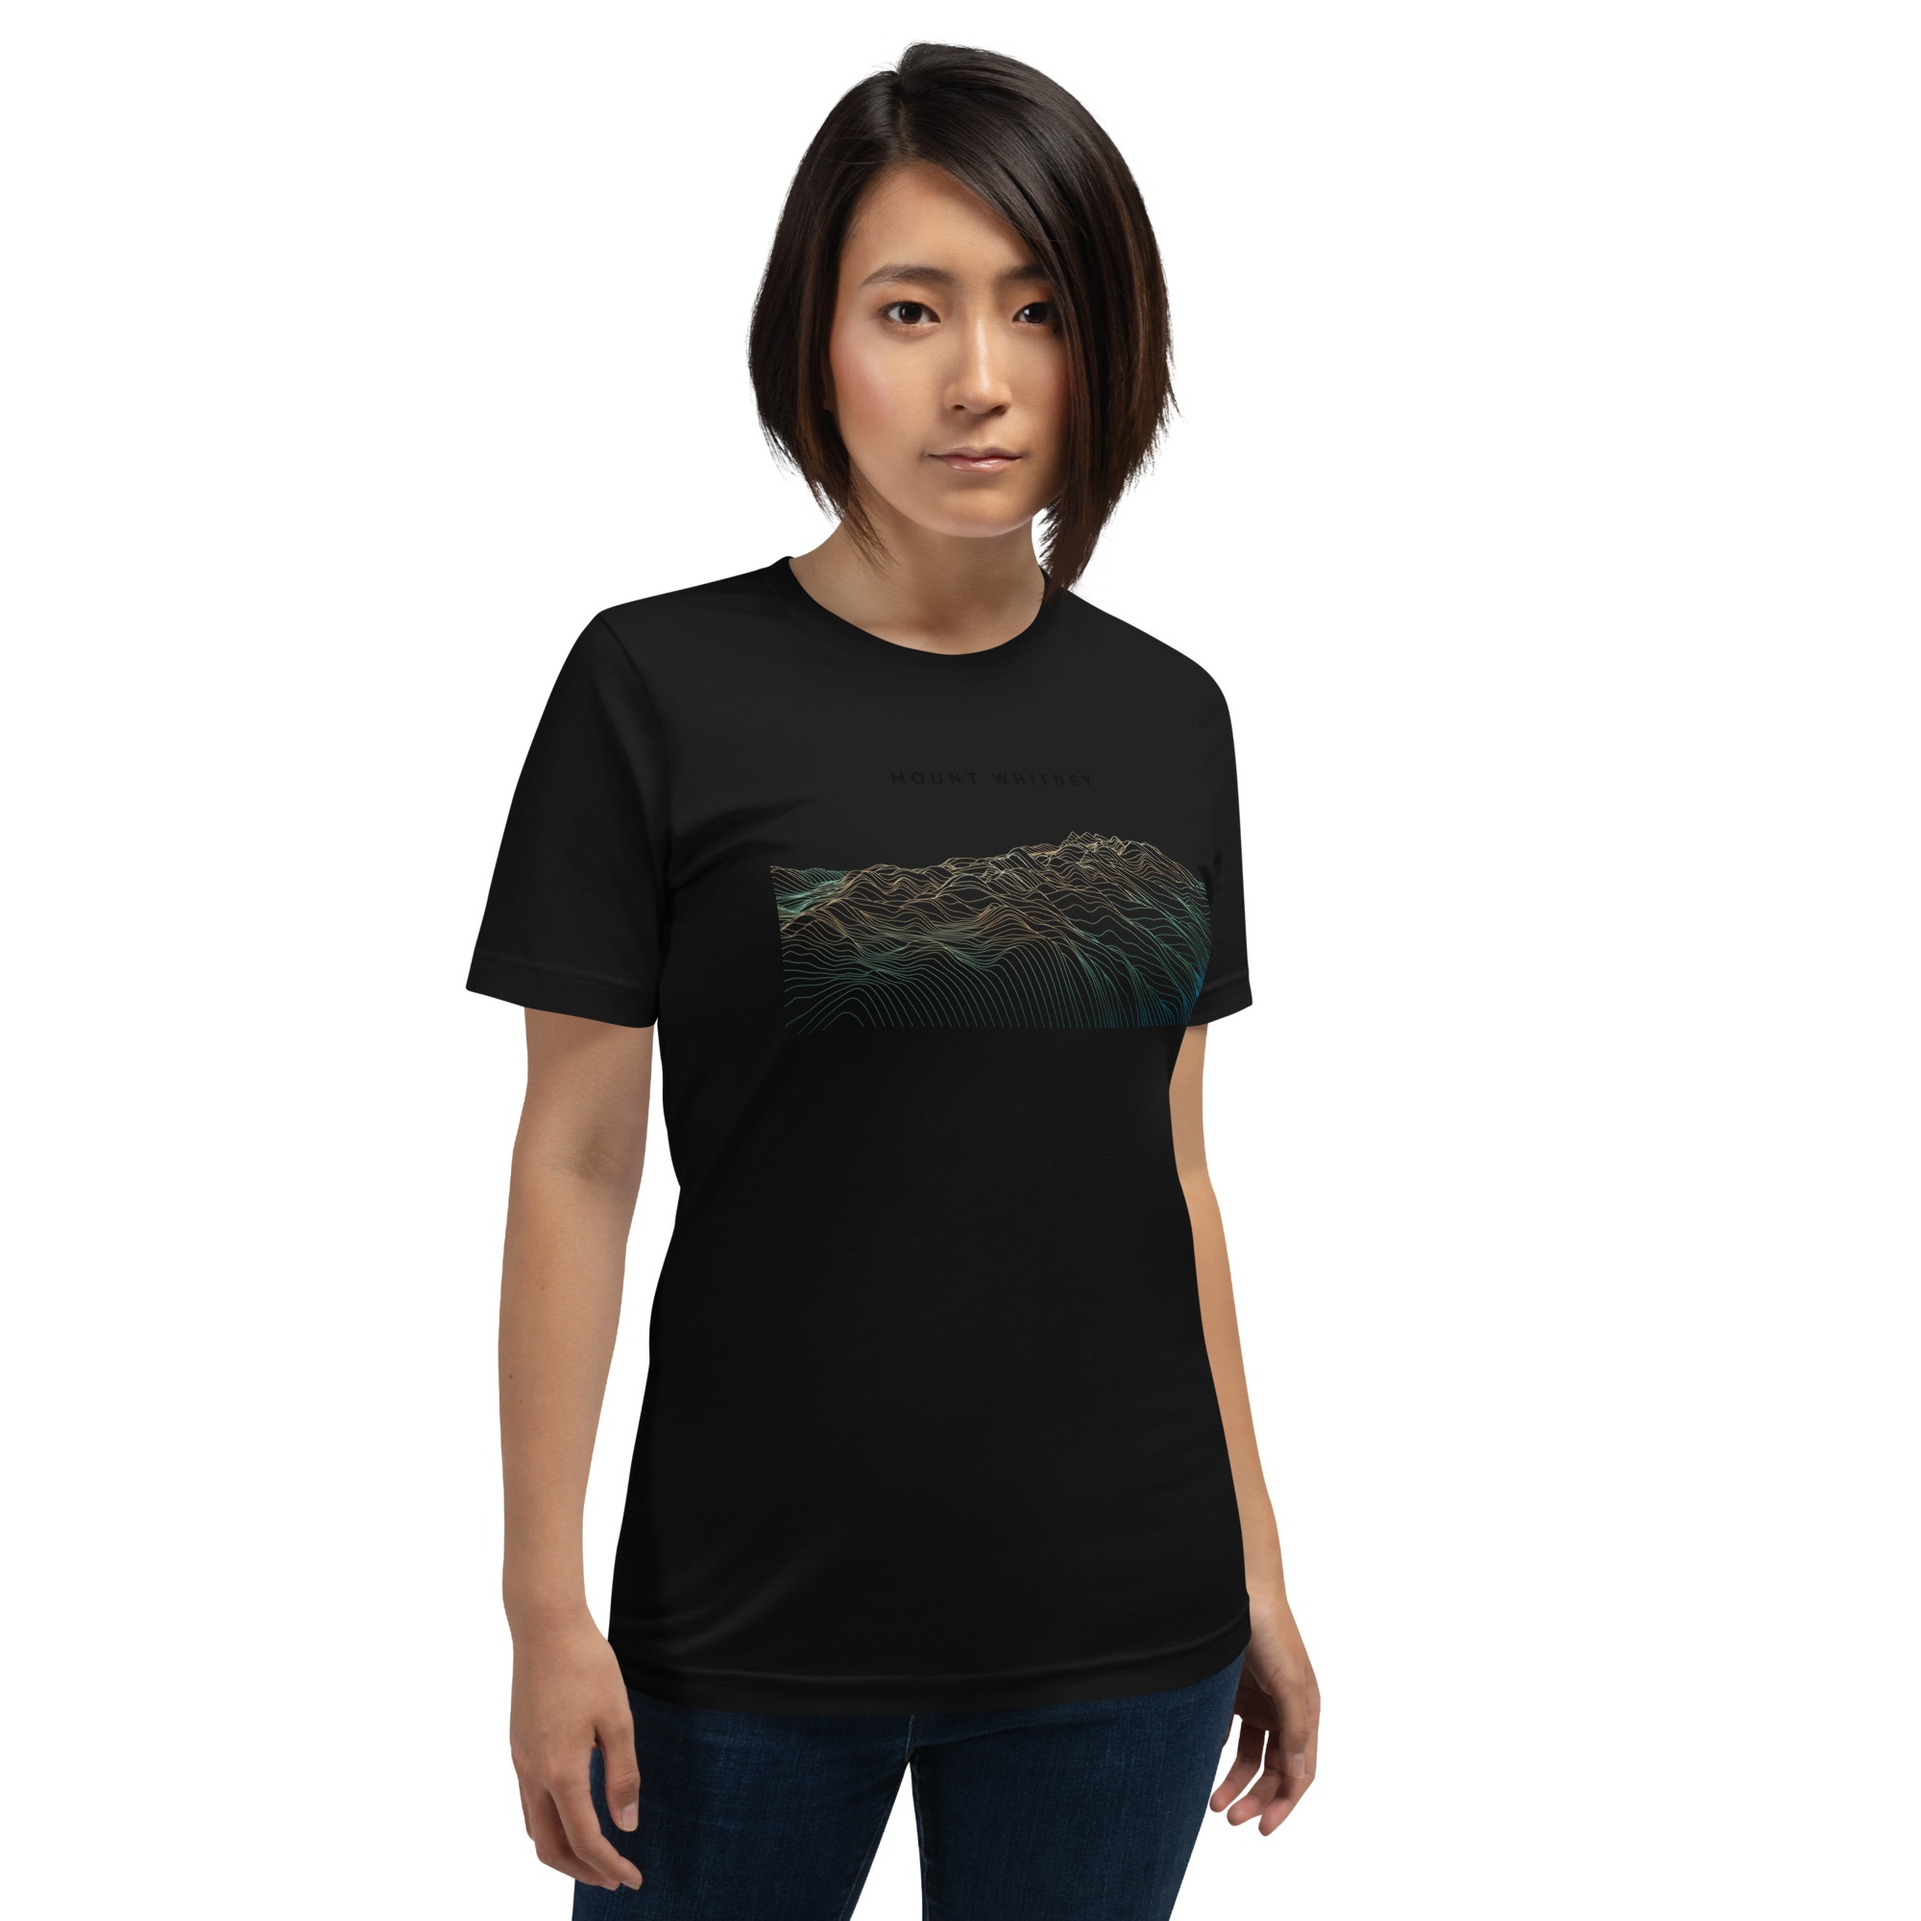
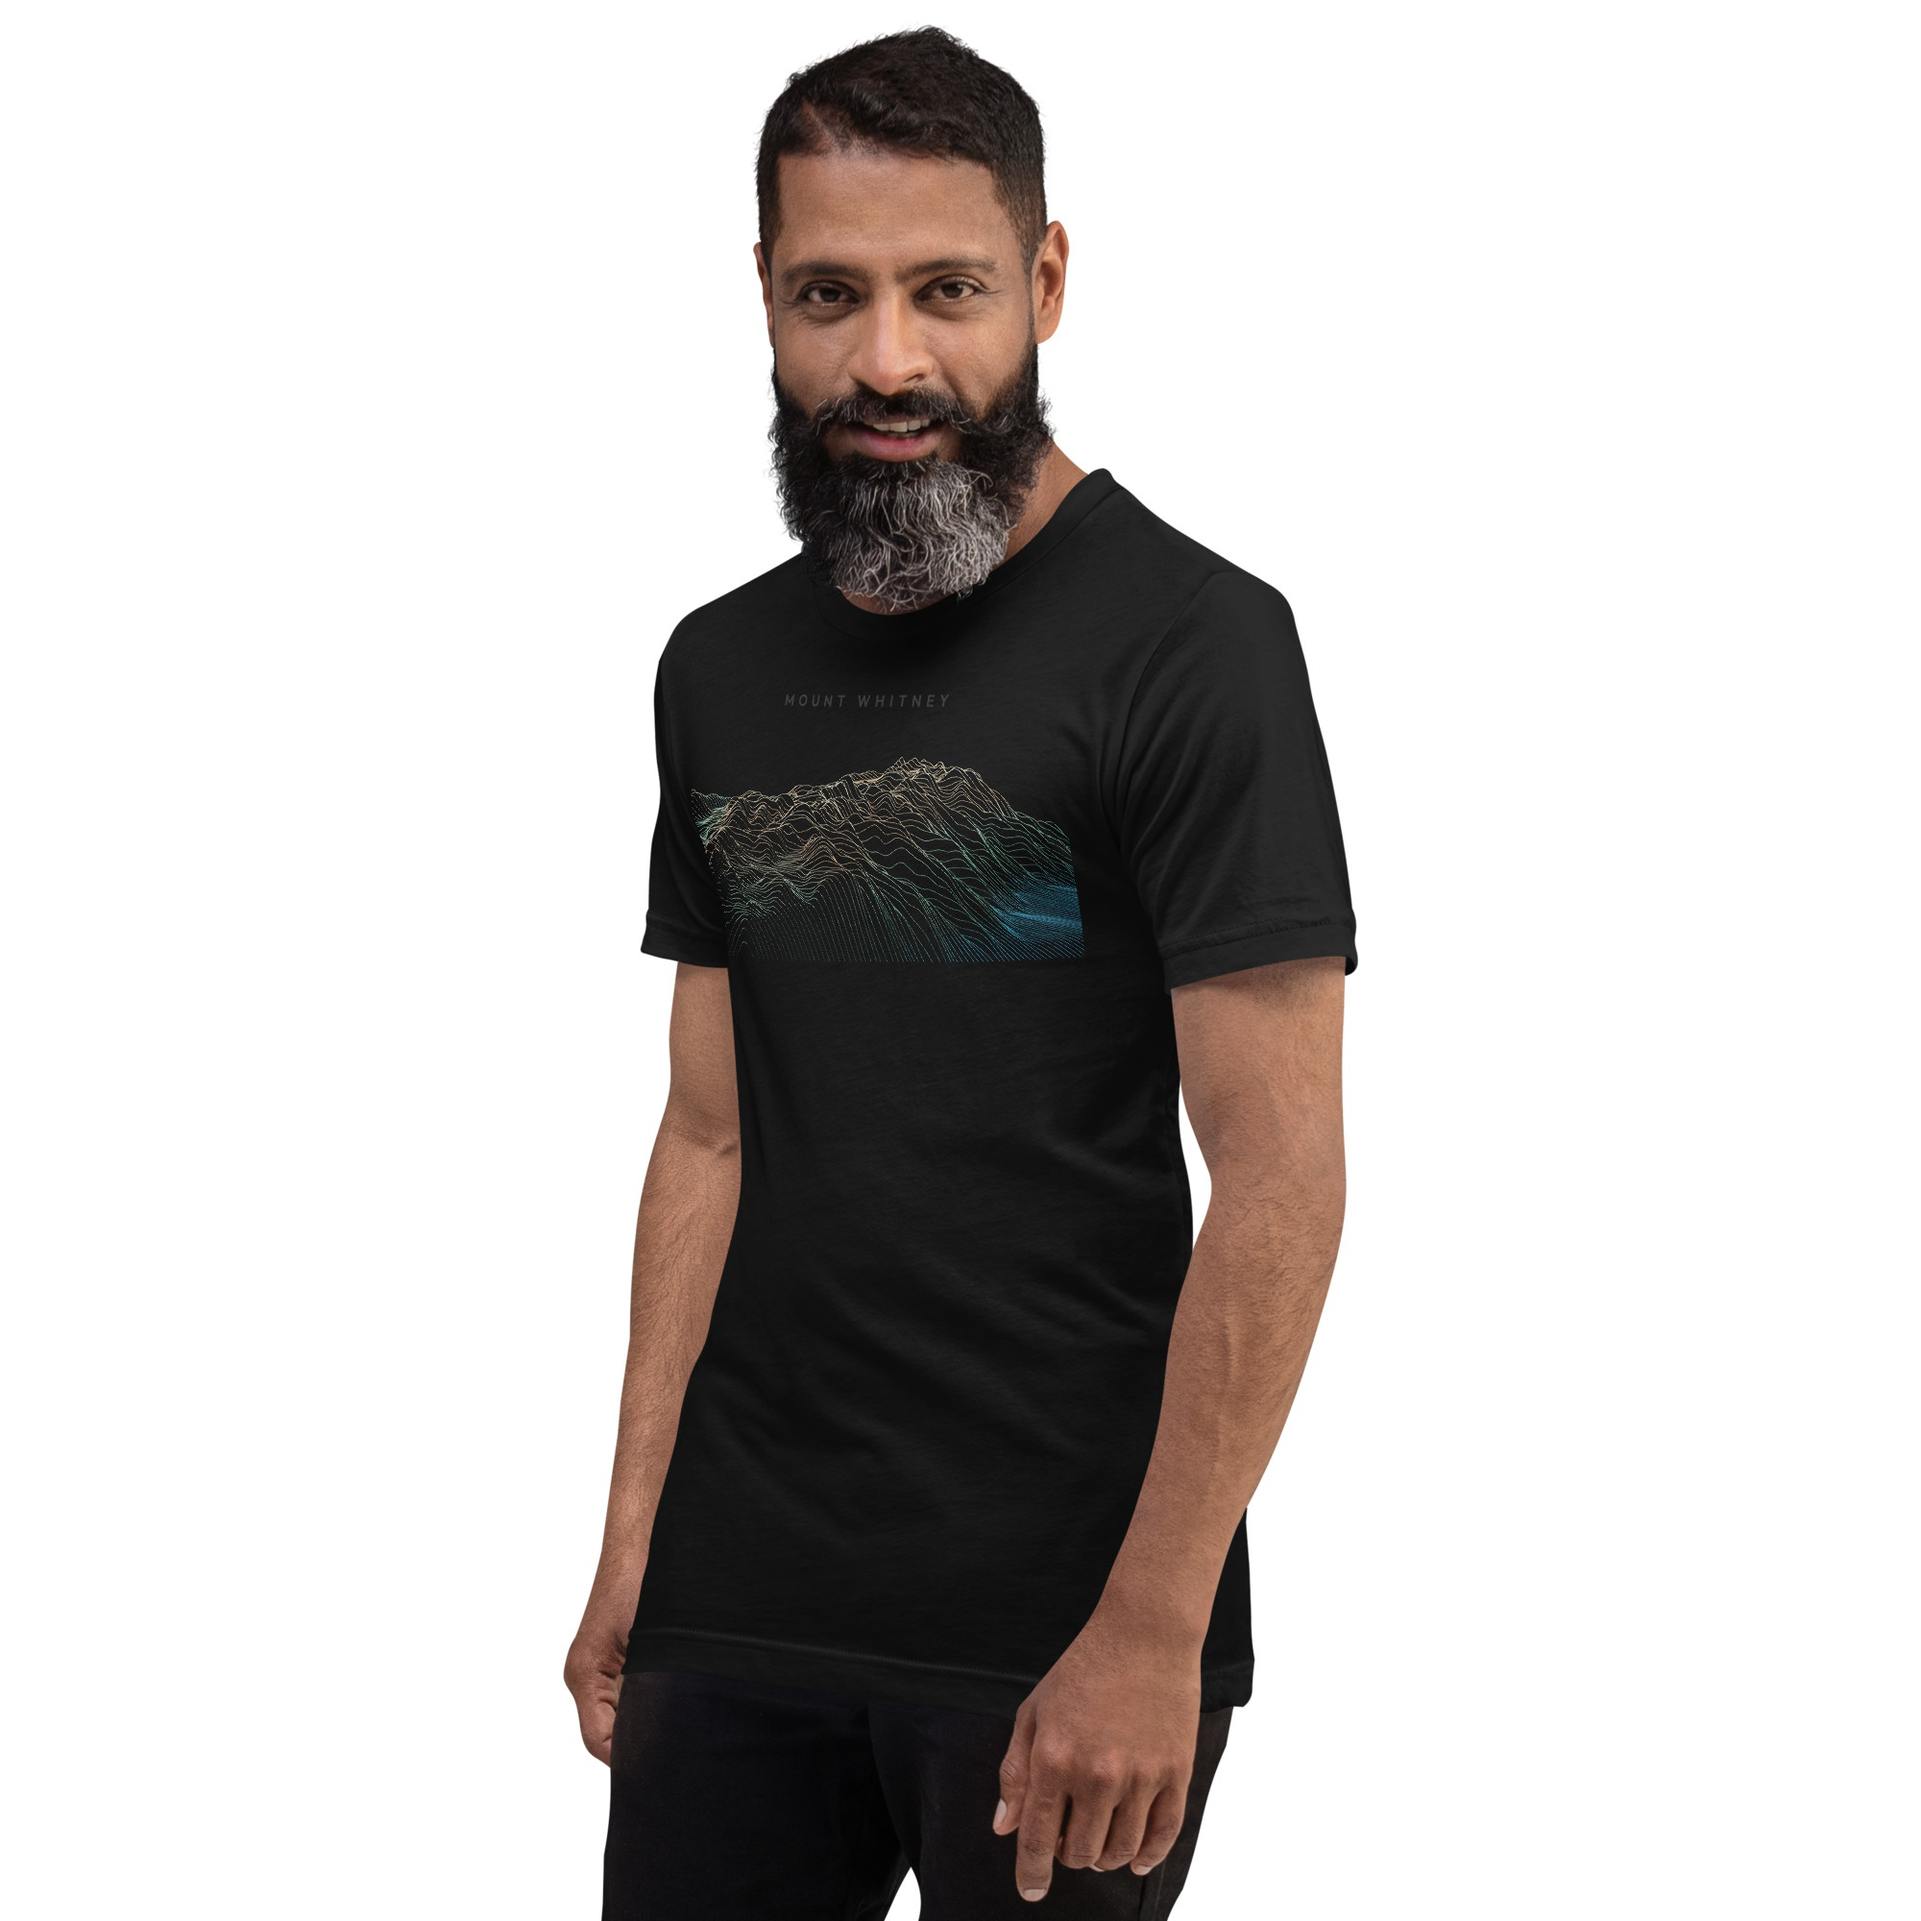
feat(merch): update Mount Whitney mockups from archive(2), randomize card order on load, update copy and remove Amazon link

Changed region(s): [[0.248, 0.0, 0.713, 1.0]]

diff --git a/sync_to_stripe.py b/sync_to_stripe.py
@@ -72,8 +72,8 @@ PRODUCT_METADATA = {
         "description": "Stacked algorithmic ridgeline contours of California's highest summit (14,505 ft). Printed on premium cotton with soft water-based inks.",
         "model_prefix": "model_whitney",
         "model_config": {
-            "option_group": "Women's 4",
-            "option": "Front",
+            "option_group": "Men's 4",
+            "option": "Left Front",
             "top": 300
         }
     },

diff --git a/merch/index.md b/merch/index.md
@@ -7,10 +7,10 @@ hero_image: /assets/images/paragliding_plains_cloudscape.jpg
 ---
 
 <p style="font-size: 1.1rem; color: var(--text-muted); margin-bottom: 2rem;">
-  Original apparel designs generated from geospatial elevation profiles, fractal mathematics, and algorithmic geometry. Printed on-demand on premium Bella + Canvas tees and shipped directly to your door with automatic sales tax calculation.
+  Original apparel designs generated from geospatial elevation profiles, fractal mathematics, and algorithmic geometry. Printed on-demand on Bella + Canvas tees and shipped to your door.
 </p>
 
-<div class="grid" style="grid-template-columns: repeat(auto-fit, minmax(320px, 1fr)); gap: 1.75rem;">
+<div class="grid merch-grid" style="grid-template-columns: repeat(auto-fit, minmax(320px, 1fr)); gap: 1.75rem;">
 
   {% for product_entry in site.data.merch_products %}
     {% assign prod_slug = product_entry[0] %}
@@ -163,12 +163,9 @@ hero_image: /assets/images/paragliding_plains_cloudscape.jpg
 
 <div class="spec-box" style="text-align: center; padding: 2.25rem 1.5rem; margin-top: 2rem;">
   <h2 style="border: none; margin-top: 0;">Direct Print-on-Demand Fulfillment</h2>
-  <p style="max-width: 620px; margin: 0.5rem auto 1.5rem auto; color: var(--text-muted);">
+  <p style="max-width: 620px; margin: 0.5rem auto 0 auto; color: var(--text-muted);">
     All apparel orders are processed securely via Stripe Checkout and automatically fulfilled by Printful on premium Bella + Canvas combed ring-spun and tri-blend garments.
   </p>
-  <a href="https://www.amazon.com/s?k=litestep" target="_blank" rel="noopener" class="btn" style="font-size: 0.95rem; padding: 0.65rem 1.5rem; border: 1px solid var(--border);">
-    View Legacy Merch on Amazon &rarr;
-  </a>
 </div>
 
 <script>
@@ -235,6 +232,17 @@ hero_image: /assets/images/paragliding_plains_cloudscape.jpg
       modalImg.style.transformOrigin = 'center center';
       modalImg.style.transform = 'scale(1)';
     });
+  }
+
+  // Show product cards in random order on each page load
+  const gridEl = document.querySelector('.merch-grid');
+  if (gridEl) {
+    const cards = Array.from(gridEl.querySelectorAll('.merch-card'));
+    for (let i = cards.length - 1; i > 0; i--) {
+      const j = Math.floor(Math.random() * (i + 1));
+      [cards[i], cards[j]] = [cards[j], cards[i]];
+    }
+    cards.forEach(card => gridEl.appendChild(card));
   }
 
   // Iterate over product cards
